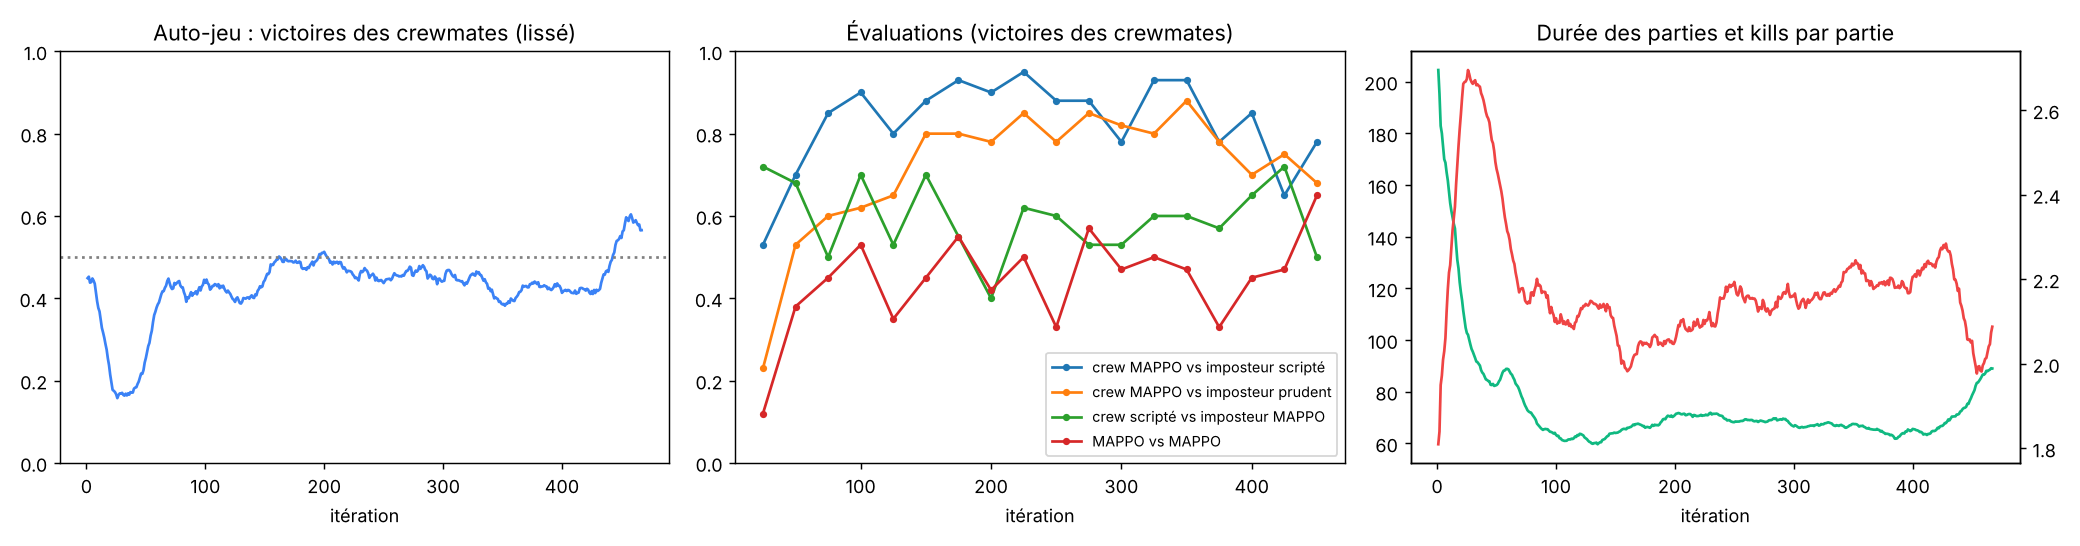
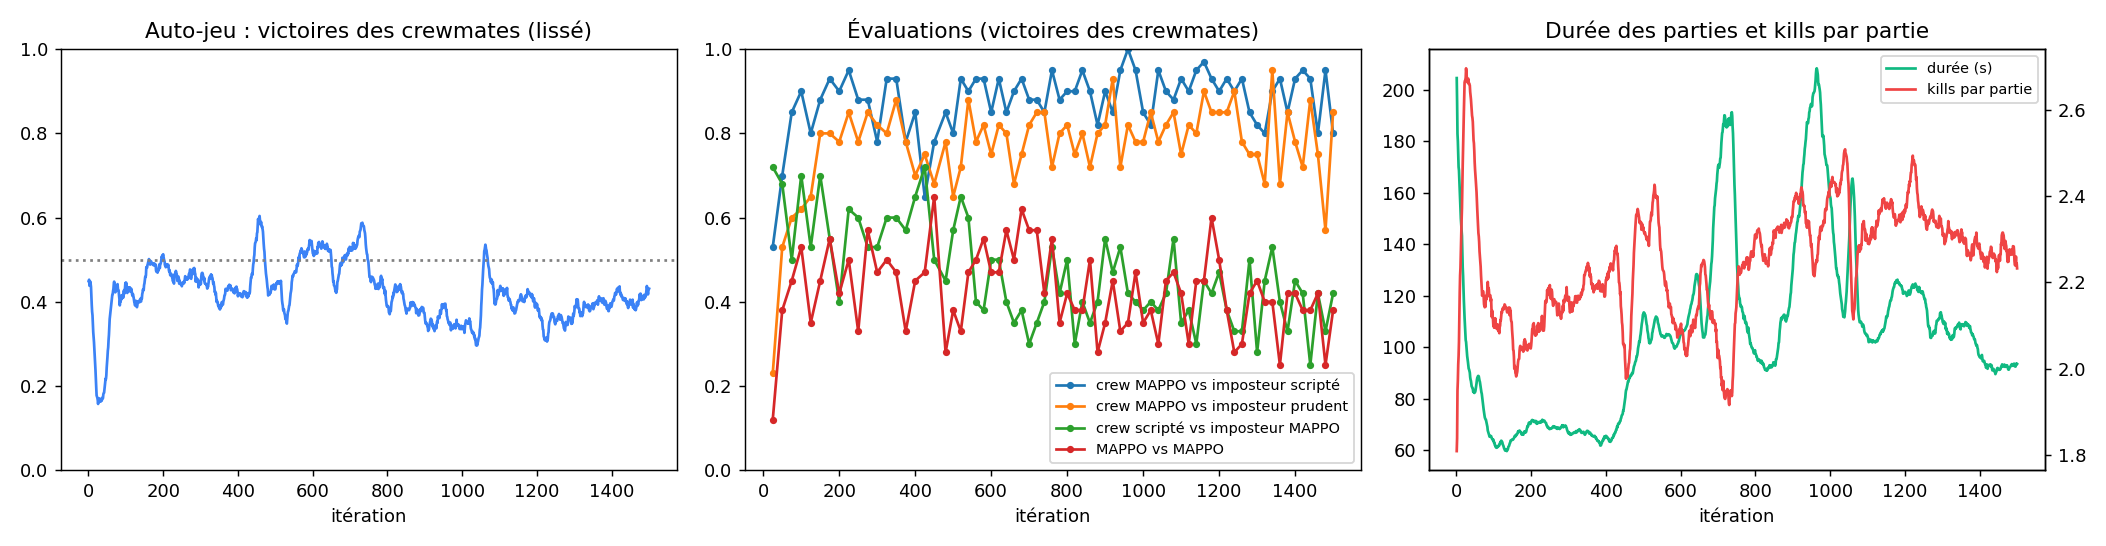
Résultats du modèle final (itération 1500) et mention projet de fan
- évaluation à 500 parties par case du modèle final de runs/main
- courbes d'entraînement retracées sur les 1500 itérations
- plot_training : un fichier par run, graphique des éjections si vote appris
- README : mention « projet de fan, sans lien avec Innersloth »

diff --git a/plot_training.py b/plot_training.py
@@ -1,5 +1,10 @@
 #!/usr/bin/env python3
-"""Courbes d'entraînement MAPPO à partir de runs/<nom>/log.csv  ->  results/training_curves.png"""
+"""Courbes d'entraînement MAPPO à partir de runs/<nom>/log.csv.
+
+    python plot_training.py runs/main    ->  results/training_curves.png
+    python plot_training.py runs/vote    ->  results/training_curves_vote.png   (un fichier par run)
+Si le run a un vote appris, un 4e graphique montre les éjections par partie.
+"""
 import csv
 import os
 import sys
@@ -10,20 +15,28 @@ import matplotlib.pyplot as plt
 
 HERE = os.path.dirname(os.path.abspath(__file__))
 run = sys.argv[1] if len(sys.argv) > 1 else os.path.join(HERE, "runs", "main")
-rows = list(csv.DictReader(open(os.path.join(run, "log.csv"))))
+name = os.path.basename(os.path.normpath(run))
+out = os.path.join(HERE, "results", "training_curves.png" if name == "main" else f"training_curves_{name}.png")
+rows = list(csv.DictReader(open(os.path.join(run, "log.csv"), encoding="utf-8")))
 it = [int(r["iter"]) for r in rows]
+has_vote = any((r.get("crew_vote_ent") or "0") not in ("", "0", "0.0") for r in rows)
 
 
 def smooth(v, k=15):
-    out = []
+    res = []
     for i in range(len(v)):
         w = v[max(0, i - k + 1):i + 1]
-        out.append(sum(w) / len(w))
-    return out
+        res.append(sum(w) / len(w))
+    return res
 
 
-fig, ax = plt.subplots(1, 3, figsize=(16, 4.2))
-ax[0].plot(it, smooth([float(r["self_crew_win"]) for r in rows]), color="#3b82f6")
+def col(key):
+    return smooth([float(r[key]) for r in rows])
+
+
+n = 4 if has_vote else 3
+fig, ax = plt.subplots(1, n, figsize=(5.4 * n, 4.2))
+ax[0].plot(it, col("self_crew_win"), color="#3b82f6")
 ax[0].set(title="Auto-jeu : victoires des crewmates (lissé)", xlabel="itération", ylim=(0, 1))
 ax[0].axhline(0.5, color="gray", ls=":")
 ev = [r for r in rows if r["ev_crew_vs_scripted_imp"] != ""]
@@ -35,11 +48,18 @@ for key, lab in (("ev_crew_vs_scripted_imp", "crew MAPPO vs imposteur scripté")
     ax[1].plot(x, [float(r[key]) for r in ev], marker="o", ms=3, label=lab)
 ax[1].set(title="Évaluations (victoires des crewmates)", xlabel="itération", ylim=(0, 1))
 ax[1].legend(fontsize=8)
-ax[2].plot(it, smooth([float(r["mean_sec"]) for r in rows]), label="durée (s)", color="#10b981")
+la, = ax[2].plot(it, col("mean_sec"), color="#10b981")
 ax2 = ax[2].twinx()
-ax2.plot(it, smooth([float(r["kills"]) for r in rows]), label="kills", color="#ef4444")
+lb, = ax2.plot(it, col("kills"), color="#ef4444")
 ax[2].set(title="Durée des parties et kills par partie", xlabel="itération")
+ax[2].legend([la, lb], ["durée (s)", "kills par partie"], fontsize=8)
+if has_vote:
+    ax[3].plot(it, col("good_eject"), color="#10b981", label="imposteur éjecté")
+    ax[3].plot(it, col("wrong_eject"), color="#ef4444", label="innocent éjecté")
+    ax[3].plot(it, [v / 7 for v in col("skipped_votes")], color="#9ca3af", ls="--", label="votes blancs (÷7)")
+    ax[3].set(title="Vote appris : éjections par partie (lissé)", xlabel="itération", ylim=(0, 1))
+    ax[3].legend(fontsize=8)
 fig.tight_layout()
-os.makedirs(os.path.join(HERE, "results"), exist_ok=True)
-fig.savefig(os.path.join(HERE, "results", "training_curves.png"), dpi=130)
-print("ok")
+os.makedirs(os.path.dirname(out), exist_ok=True)
+fig.savefig(out, dpi=130)
+print("ok ->", out)

diff --git a/README.md b/README.md
@@ -3,6 +3,9 @@
 Jeu inspiré d'Among Us (designs originaux, rendu 2.5D, déplacement libre en temps réel) où **6 crewmates IA et 1 imposteur IA**
 sont entraînés par **MAPPO** (Multi-Agent PPO, entraînement centralisé / exécution décentralisée). Tu peux aussi jouer toi-même.
 
+> Projet de fan, non commercial, sans lien avec Innersloth. « Among Us » est une marque d'Innersloth LLC ; ce dépôt
+> n'en reprend aucun élément graphique ni sonore.
+
 ## Installation
 ```bash
 pip install -r requirements.txt      # numpy + pygame suffisent pour JOUER ; torch + matplotlib pour ENTRAÎNER

diff --git a/results/eval_iter1500/evaluation.md b/results/eval_iter1500/evaluation.md
@@ -1,0 +1,7 @@
+# Évaluation (victoires des crewmates, 500 parties/case, IC 95 %)
+
+| Équipe \ Imposteur | Imp MAPPO | Imp scripté | Imp prudent | Imp aléatoire |
+|---|---|---|---|---|
+| Crew MAPPO | 41% ±4 (2.2 kills) | 87% ±3 (1.4 kills) | 76% ±4 (1.7 kills) | 96% ±2 (0.9 kills) |
+| Crew scripté | 35% ±4 (2.3 kills) | 86% ±3 (1.4 kills) | 71% ±4 (1.7 kills) | 98% ±1 (0.8 kills) |
+| Crew aléatoire | 9% ±2 (2.8 kills) | 53% ±4 (2.1 kills) | 36% ±4 (2.4 kills) | 42% ±4 (1.9 kills) |
